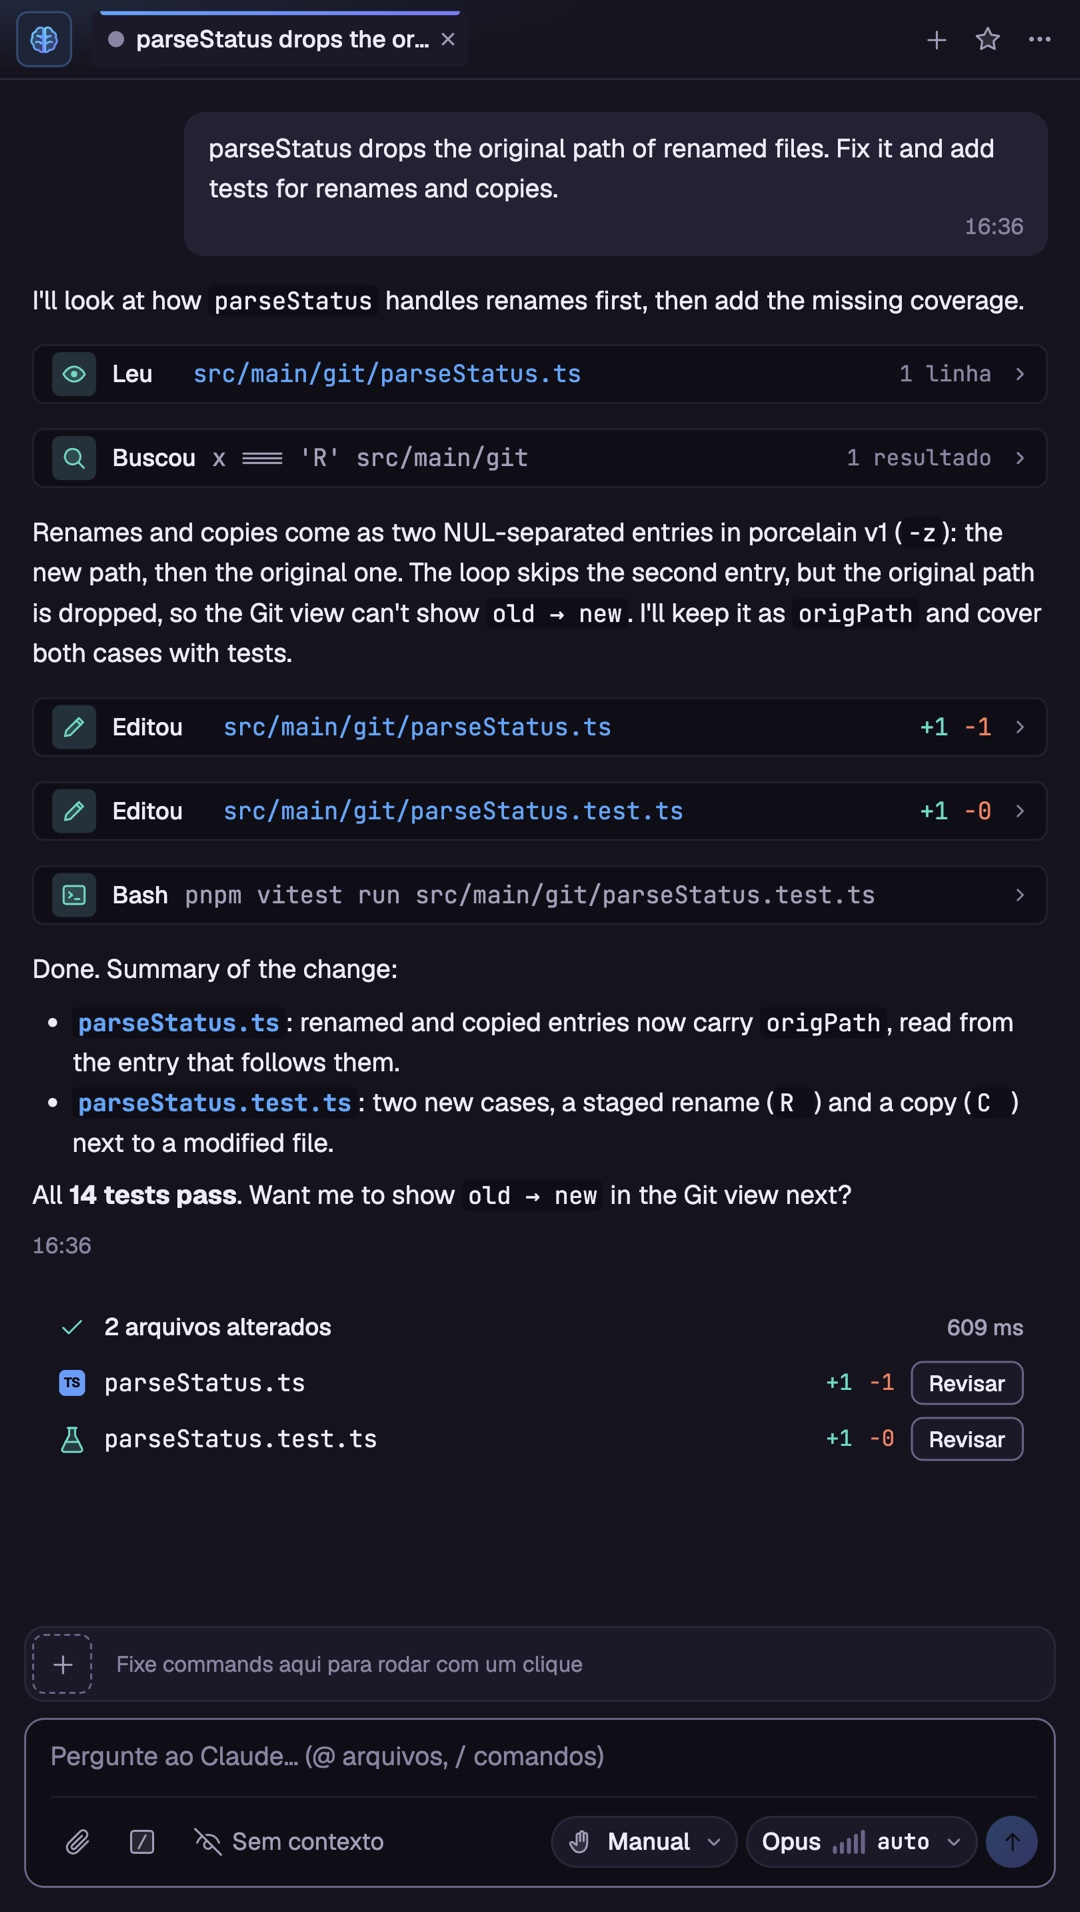
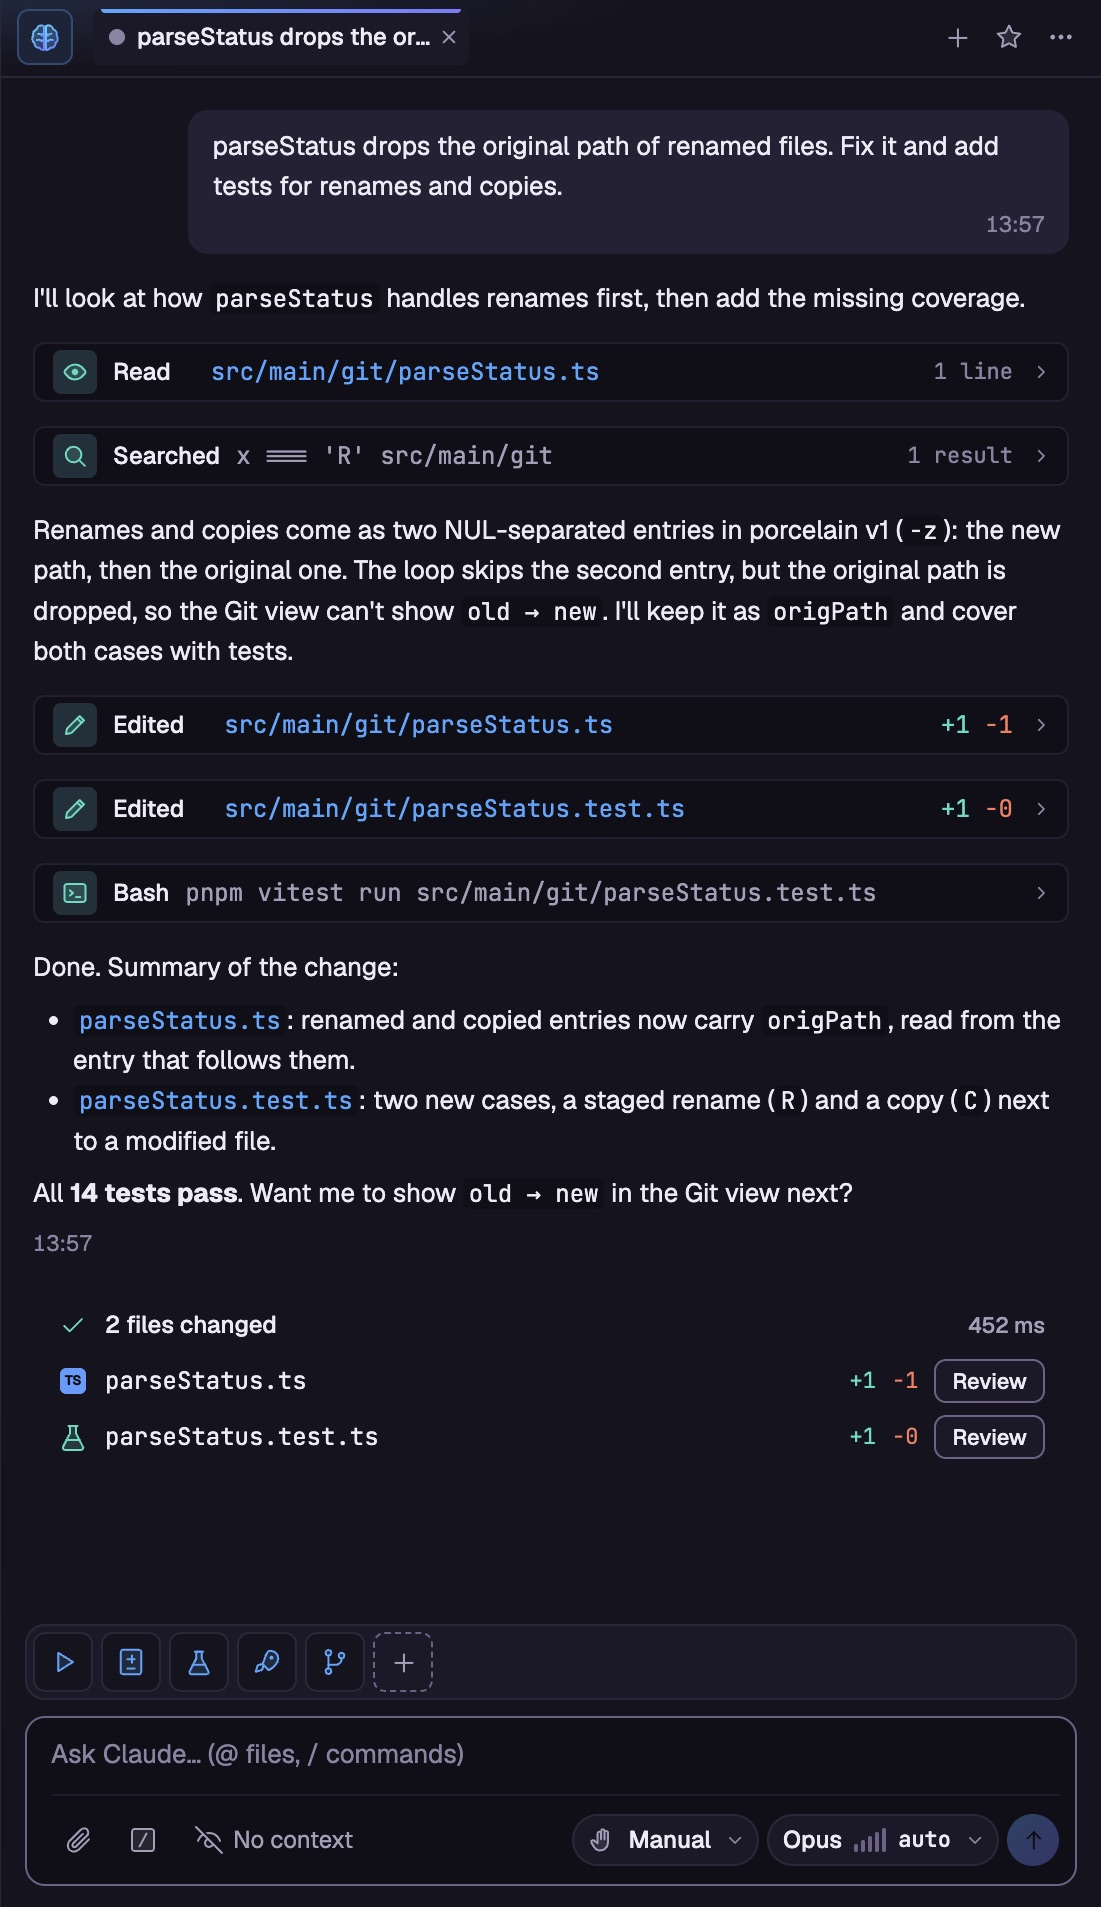
docs(ui): show the english screenshots and the differentiators on the landing page

diff --git a/site/index.html b/site/index.html
@@ -49,6 +49,7 @@
           <img src="assets/walph-logo.svg" alt="Walph" width="114" height="28" />
         </a>
         <nav class="nav" aria-label="Main">
+          <a href="#highlights">Why Walph</a>
           <a href="#features">Features</a>
           <a href="#download">Download</a>
           <a href="#support">Support</a>
@@ -71,9 +72,8 @@
           <p class="eyebrow">Free and open source</p>
           <h1>A desktop IDE with <span class="grad">Claude Code</span> built in</h1>
           <p class="lead">
-            Walph puts the Claude Code agent right next to your editor, terminal and Git. It sees your diagnostics and
-            selection, proposes edits as diffs you accept or reject, and keeps working in background workspaces while
-            you move on.
+            Run Claude Code in every project at once. Walph keeps all your workspaces on one screen, tells you when an
+            agent finishes or needs you, and puts the agent right next to your editor, terminal and Git.
           </p>
 
           <div class="downloads" id="download">
@@ -107,7 +107,8 @@
           </div>
           <p class="fine-print">
             macOS (Apple silicon), Windows installer and Linux (AppImage, deb). The agent panel uses your own Claude
-            account or Anthropic API key; everything else works without it. The interface is in Brazilian Portuguese.
+            account or Anthropic API key; everything else works without it. The interface is in English, Brazilian
+            Portuguese and Spanish.
           </p>
         </div>
 
@@ -117,9 +118,82 @@
               src="assets/hero.jpg"
               width="2400"
               height="1500"
-              alt="Walph with a TypeScript file open, the file explorer, the terminal and the Claude Code panel side by side"
+              alt="Walph with four workspaces in one window: Claude Code is working in one, finished in another and waiting for you in a third, while you keep coding in the first"
             />
           </figure>
+        </div>
+      </section>
+
+      <section class="highlights" id="highlights" aria-labelledby="highlights-title">
+        <div class="container">
+          <h2 id="highlights-title">What makes Walph different</h2>
+          <p class="section-lead">Built for working with agents in many projects at the same time.</p>
+
+          <article class="highlight">
+            <div class="highlight-text">
+              <span class="highlight-index">01</span>
+              <h3>Every workspace on the same screen</h3>
+              <p>
+                Open all your projects as tabs in one window. Each tab shows the folder, its branch, its
+                <code>⌘1…⌘9</code> shortcut and what Claude Code is doing there (working, finished, waiting for you or
+                failed), so you can see the state of every project at a glance. Each workspace keeps its own explorer,
+                terminals, git, language servers and Claude sessions, and switching between them loses nothing.
+              </p>
+            </div>
+            <figure class="shot highlight-shot">
+              <img
+                src="assets/workspace-bar.png"
+                width="1748"
+                height="131"
+                loading="lazy"
+                alt="The workspace bar: one tab per project with its branch, shortcut, Claude Code status and unread counter"
+              />
+            </figure>
+          </article>
+
+          <article class="highlight highlight-split">
+            <div class="highlight-text">
+              <span class="highlight-index">02</span>
+              <h3>Notifications from every workspace</h3>
+              <p>
+                Hand a task to Claude in one project and move on to another. When a background workspace finishes, asks
+                for permission or fails, its tab gets an unread counter and the screen you are on shows a toast with the
+                project, the session and an <strong>Open Workspace</strong> button. With the window in the background,
+                an OS notification arrives too.
+              </p>
+            </div>
+            <figure class="shot highlight-shot">
+              <img
+                src="assets/notifications.png"
+                width="739"
+                height="555"
+                loading="lazy"
+                alt="Toasts from two background workspaces: one where Claude Code needs you and one where it finished"
+              />
+            </figure>
+          </article>
+
+          <article class="highlight highlight-split">
+            <div class="highlight-text">
+              <span class="highlight-index">03</span>
+              <h3>One-click shortcuts for commands</h3>
+              <p>
+                Pin the Claude Code commands you use the most (<code>/task</code>, <code>/review-changes</code>,
+                <code>/create-tests</code>, <code>/commit-and-push</code>, your own project and personal commands) above
+                the prompt, each with its own icon. One click runs it in the current session, no typing. Favorites are
+                saved per project.
+              </p>
+            </div>
+            <figure class="shot highlight-shot">
+              <img
+                src="assets/favorite-commands.png"
+                width="1084"
+                height="277"
+                loading="lazy"
+                alt="Pinned commands above the Claude Code prompt"
+              />
+            </figure>
+          </article>
         </div>
       </section>
 
@@ -136,14 +210,14 @@
               <h3>Claude Code panel</h3>
               <p>
                 Streaming conversations, inline permission prompts, edits as side by side diffs with Accept and Reject,
-                sessions as tabs, checkpoints to rewind, and an <code>/mcp</code> server manager.
+                sessions as tabs, checkpoints to rewind, favorite commands and an <code>/mcp</code> server manager.
               </p>
             </article>
             <article class="card">
               <h3>Workspaces, not windows</h3>
               <p>
-                Open many folders as tabs in a single window. Each one keeps its own editors, terminals, language
-                servers and Claude sessions, and idle ones hibernate.
+                Many folders as tabs in a single window, each with its own editors, terminals, language servers and
+                Claude sessions. Idle ones hibernate to save memory.
               </p>
             </article>
             <article class="card">
@@ -204,10 +278,10 @@
           <figure class="shot">
             <img
               src="assets/claude-panel.jpg"
-              width="1080"
-              height="1912"
+              width="1101"
+              height="1907"
               loading="lazy"
-              alt="The Claude Code panel reading, editing and testing files, with a summary of the changed files"
+              alt="The Claude Code panel after a task, with the changed files ready to review"
             />
             <figcaption>
               The agent reads, edits and runs your tests, then lists every changed file to review.
@@ -217,7 +291,7 @@
             <img
               src="assets/git.jpg"
               width="1600"
-              height="900"
+              height="1000"
               loading="lazy"
               alt="The Git view with staged and unstaged changes, the commit history and a side by side diff"
             />

diff --git a/site/styles.css b/site/styles.css
@@ -328,6 +328,55 @@ p {
   box-shadow: var(--shadow-glow);
 }
 
+/* Highlights */
+
+.highlights {
+  padding: 96px 0 0;
+  scroll-margin-top: 64px;
+}
+
+.highlight {
+  margin-top: 56px;
+  display: grid;
+  gap: 28px;
+  padding: 32px;
+  background: var(--bg-100);
+  border: 1px solid var(--line);
+  border-radius: var(--radius-lg);
+}
+
+.highlight-split {
+  grid-template-columns: minmax(0, 1fr) minmax(0, 1fr);
+  align-items: center;
+  gap: 40px;
+}
+
+.highlight + .highlight {
+  margin-top: 24px;
+}
+
+.highlight-index {
+  font-family: var(--font-mono);
+  font-size: 13px;
+  color: var(--accent-strong);
+}
+
+.highlight h3 {
+  margin-top: 8px;
+  font-size: clamp(22px, 2.6vw, 28px);
+  line-height: 1.2;
+}
+
+.highlight-text p {
+  margin-top: 14px;
+  max-width: 760px;
+  color: var(--ink-muted);
+}
+
+.highlight-shot {
+  justify-self: center;
+}
+
 /* Features */
 
 .features {
@@ -336,12 +385,14 @@ p {
 }
 
 .features h2,
+.highlights h2,
 .support h2 {
   font-size: clamp(30px, 4vw, 40px);
   line-height: 1.15;
 }
 
-.features h2 {
+.features h2,
+.highlights h2 {
   text-align: center;
 }
 
@@ -503,8 +554,10 @@ p {
     grid-template-columns: repeat(2, 1fr);
   }
 
-  .showcase-grid {
+  .showcase-grid,
+  .highlight-split {
     grid-template-columns: 1fr;
+    gap: 28px;
   }
 
   .showcase-grid .shot:first-child img {
@@ -554,8 +607,13 @@ p {
     padding-top: 64px;
   }
 
-  .support-card {
+  .support-card,
+  .highlight {
     padding: 28px 24px;
+  }
+
+  .highlights {
+    padding-top: 64px;
   }
 
   .footer-inner {
